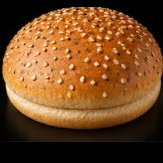
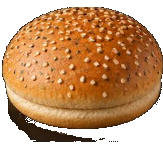
fix(estoque): topo do hub, colunas da lista e fotos sem fundo preto

diff --git a/frontend/src/components/estoque/estoque-hub.css b/frontend/src/components/estoque/estoque-hub.css
@@ -5,7 +5,7 @@
   --eh-line: rgba(255, 255, 255, 0.1);
   --eh-text: #f5f5f5;
   --eh-muted: #8d8d8d;
-  --eh-orange: #ff6a00;
+  --eh-orange: #fe6c22;
   --eh-green: #22c55e;
   --eh-yellow: #eab308;
   --eh-red: #ef4444;
@@ -43,21 +43,7 @@
   display: flex;
   align-items: center;
   justify-content: space-between;
-  gap: 10px;
-}
-
-.ck-estoque-hub__brand {
-  display: flex;
-  align-items: center;
-  gap: 8px;
-  min-width: 0;
-}
-
-.ck-estoque-hub__brand img {
-  width: auto;
-  height: 40px;
-  max-width: 240px;
-  object-fit: contain;
+  gap: 12px;
 }
 
 .ck-estoque-hub__brand span {
@@ -68,7 +54,7 @@
 }
 
 .ck-estoque-hub__brand span span {
-  color: #ff6a00;
+  color: #fe6c22;
   font-weight: 800;
 }
 
@@ -111,29 +97,35 @@
   cursor: pointer;
 }
 
-.ck-estoque-hub__title-row {
-  margin-top: 10px;
+.ck-estoque-hub__mark {
+  display: block;
+  width: auto;
+  height: 30px;
+  max-width: min(186px, 54vw);
+  object-fit: contain;
+  flex-shrink: 0;
 }
 
-.ck-estoque-hub__title-row h1 {
+.ck-estoque-hub__store-row {
+  display: flex;
+  align-items: baseline;
+  justify-content: space-between;
+  gap: 12px;
+  margin-top: 14px;
+}
+
+.ck-estoque-hub__store-row h1 {
   margin: 0;
+  flex-shrink: 0;
   font-size: 1.7rem;
   font-weight: 800;
   letter-spacing: -0.04em;
   line-height: 1;
 }
 
-.ck-estoque-hub__store-row {
-  display: flex;
-  align-items: center;
-  justify-content: space-between;
-  gap: 10px;
-  margin-top: 12px;
-}
-
 .ck-estoque-hub__loja-drop {
   min-width: 0;
-  flex: 1;
+  max-width: 56%;
 }
 
 .ck-estoque-hub__store {
@@ -141,6 +133,7 @@
   min-width: 0;
   display: inline-flex;
   align-items: center;
+  justify-content: flex-end;
   gap: 4px;
   border: 0;
   padding: 0;
@@ -398,11 +391,21 @@
   color: #111;
 }
 
-.ck-estoque-hub__cols {
+.ck-estoque-hub__table {
+  --eh-grid: minmax(0, 1fr) 70px 54px 14px;
+}
+
+.ck-estoque-hub__cols,
+.ck-estoque-hub__row {
   display: grid;
-  grid-template-columns: minmax(0, 1fr) 72px 58px 14px;
-  gap: 6px;
-  padding: 0 2px 8px;
+  grid-template-columns: var(--eh-grid);
+  column-gap: 8px;
+  align-items: center;
+  width: 100%;
+}
+
+.ck-estoque-hub__cols {
+  padding: 0 0 8px;
   color: #6f6f6f;
   font-size: 0.64rem;
   font-weight: 700;
@@ -410,13 +413,18 @@
   text-transform: uppercase;
 }
 
+.ck-estoque-hub__cols > span:nth-child(2),
+.ck-estoque-hub__qtd {
+  text-align: center;
+}
+
+.ck-estoque-hub__cols > span:nth-child(3),
+.ck-estoque-hub__status {
+  justify-self: end;
+}
+
 .ck-estoque-hub__row {
-  display: grid;
-  grid-template-columns: minmax(0, 1fr) 72px 58px 14px;
-  align-items: center;
-  gap: 6px;
-  width: 100%;
-  padding: 8px 2px;
+  padding: 10px 0;
   border: 0;
   border-top: 1px solid rgba(255, 255, 255, 0.1);
   background: none;
@@ -438,8 +446,8 @@
   width: 36px;
   height: 36px;
   border-radius: 50%;
-  background: var(--eh-bg-2);
-  object-fit: cover;
+  background: transparent;
+  object-fit: contain;
   flex-shrink: 0;
 }
 
@@ -497,6 +505,7 @@
   gap: 5px;
   font-size: 0.68rem;
   color: var(--eh-muted);
+  white-space: nowrap;
 }
 
 .ck-estoque-hub__status i {
@@ -607,14 +616,14 @@
 }
 
 .ck-estoque-hub__dock > button.is-on {
-  color: #ff6a00 !important;
+  color: #fe6c22 !important;
 }
 
 .ck-estoque-hub__dock .MuiSvgIcon-root {
   font-size: 22px;
 }
 
-.ck-estoque-hub__dock-plus {
+.ck-estoque-hub__dock > button.ck-estoque-hub__dock-plus {
   width: 52px !important;
   height: 52px;
   flex: 0 0 52px !important;
@@ -627,14 +636,15 @@
   line-height: 0;
   border-radius: 50% !important;
   background: var(--eh-orange) !important;
-  color: #fff !important;
-  box-shadow: 0 8px 18px rgba(255, 106, 0, 0.35);
+  color: #ffffff !important;
+  box-shadow: 0 8px 18px rgba(254, 108, 34, 0.32);
 }
 
-.ck-estoque-hub__dock-plus .MuiSvgIcon-root {
+.ck-estoque-hub__dock > button.ck-estoque-hub__dock-plus .MuiSvgIcon-root {
   font-size: 28px;
   margin: 0 !important;
   display: block;
+  color: #ffffff !important;
 }
 
 .ck-estoque-hub__loja-drop {
@@ -645,7 +655,8 @@
   position: absolute;
   z-index: 20;
   top: calc(100% + 8px);
-  left: 0;
+  right: 0;
+  left: auto;
   min-width: 220px;
   max-height: 240px;
   overflow: auto;
@@ -722,8 +733,8 @@
   width: 56px;
   height: 56px;
   border-radius: 50%;
-  object-fit: cover;
-  background: var(--eh-bg-2);
+  object-fit: contain;
+  background: transparent;
   flex-shrink: 0;
 }
 

diff --git a/frontend/src/pages/estoque/EstoqueMobileListaPage.tsx b/frontend/src/pages/estoque/EstoqueMobileListaPage.tsx
@@ -143,7 +143,10 @@ function InsumoRow({
         <img className="ck-estoque-hub__thumb" src={assetUrl(thumbInsumo(item))} alt="" />
         <span className="ck-estoque-hub__copy">
           <strong>{nomeInsumoCurto(item.descricao)}</strong>
-          <small>{item.codigo}</small>
+          <small>
+            {item.codigo}
+            {item.unidade_contagem ? ` · ${String(item.unidade_contagem).toUpperCase()}` : ''}
+          </small>
         </span>
       </span>
       <span className="ck-estoque-hub__qtd">{fmtQtdHub(item.quantidade, item.unidade_contagem)}</span>
@@ -340,9 +343,7 @@ export default function EstoqueMobileListaPage() {
       <div className="ck-estoque-hub__scroll">
       <header className="ck-estoque-hub__top">
         <div className="ck-estoque-hub__brand-row">
-          <div className="ck-estoque-hub__brand">
-            <img src={assetUrl(LOGO_GA_LOCKUP)} alt="Grupo Alvim" />
-          </div>
+          <img className="ck-estoque-hub__mark" src={assetUrl(LOGO_GA_LOCKUP)} alt="Grupo Alvim" />
           <div className="ck-estoque-hub__actions">
             <button type="button" className="ck-estoque-hub__icon-btn" aria-label="Buscar" onClick={abrirBusca}>
               <SearchIcon sx={{ fontSize: 22 }} />
@@ -358,11 +359,8 @@ export default function EstoqueMobileListaPage() {
           </div>
         </div>
 
-        <div className="ck-estoque-hub__title-row">
-          <h1>Estoque</h1>
-        </div>
-
         <div className="ck-estoque-hub__store-row">
+          <h1>Estoque</h1>
           <div className="ck-estoque-hub__loja-drop">
             <button
               type="button"
@@ -392,10 +390,6 @@ export default function EstoqueMobileListaPage() {
               </div>
             ) : null}
           </div>
-          <span className="ck-estoque-hub__online">
-            <i className="ck-estoque-hub__dot" />
-            Online
-          </span>
         </div>
 
         <nav className="ck-estoque-hub__tabs" aria-label="Estoque">
@@ -491,24 +485,27 @@ export default function EstoqueMobileListaPage() {
                   </button>
                 ))}
               </div>
+            </div>
+            <div className="ck-estoque-hub__table">
               <div className="ck-estoque-hub__cols">
                 <span>Insumo</span>
                 <span>Saldo</span>
                 <span>Status</span>
+                <span />
               </div>
-            </div>
-            <div className="ck-estoque-hub__lista">
-              {!loading && !listaInsumos.length ? (
-                <p className="ck-estoque-hub__empty">Nenhum insumo neste filtro.</p>
-              ) : (
-                listaInsumos.map((item) => (
-                  <InsumoRow
-                    key={item.id_insumo || item.id_produto}
-                    item={item}
-                    onClick={() => setItemAberto(item)}
-                  />
-                ))
-              )}
+              <div className="ck-estoque-hub__lista">
+                {!loading && !listaInsumos.length ? (
+                  <p className="ck-estoque-hub__empty">Nenhum insumo neste filtro.</p>
+                ) : (
+                  listaInsumos.map((item) => (
+                    <InsumoRow
+                      key={item.id_insumo || item.id_produto}
+                      item={item}
+                      onClick={() => setItemAberto(item)}
+                    />
+                  ))
+                )}
+              </div>
             </div>
           </>
         ) : null}

diff --git a/frontend/src/components/estoque/estoqueHub.ts b/frontend/src/components/estoque/estoqueHub.ts
@@ -16,7 +16,7 @@ export function statusSaldo(item: EstoqueSaldoItem): StatusSaldoHub {
 }
 
 export function rotuloStatusSaldo(status: StatusSaldoHub) {
-  if (status === 'zerado') return 'Zerado';
+  if (status === 'zerado') return 'Zero';
   if (status === 'abaixo') return 'Abaixo';
   return 'OK';
 }
